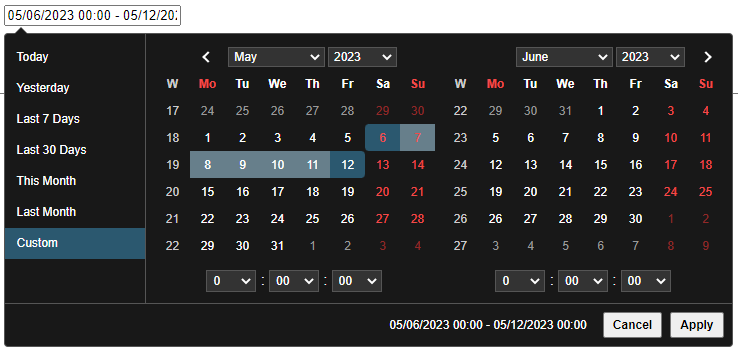
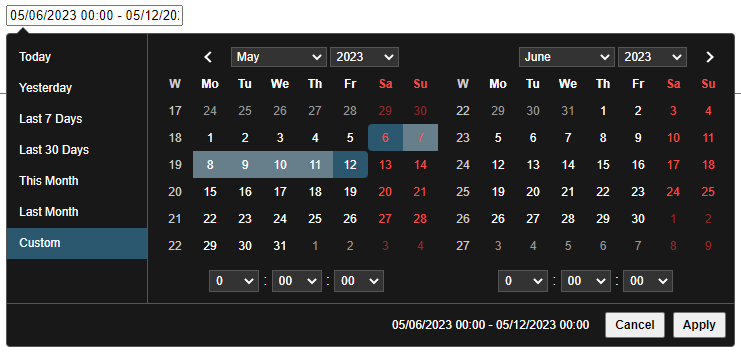
Fixed week end color in case that week starts from Monday.

diff --git a/daterangepicker.js b/daterangepicker.js
@@ -753,8 +753,11 @@
             if (this.showWeekNumbers || this.showISOWeekNumbers)
                 html += '<th class="week">' + this.locale.weekLabel + '</th>';
 
+            var firstDaysOfWeekIndex = this.locale.firstDay;
+            var sundayIdx = (0 - firstDaysOfWeekIndex) < 0 ? 7 - firstDaysOfWeekIndex : 0;
+            var saturdayIdx = 6 - firstDaysOfWeekIndex;
             $.each(this.locale.daysOfWeek, function(index, dayOfWeek) {
-                html += '<th ' +((index===0||index==6) ? 'class="weekend"' : '') + '>' + dayOfWeek + '</th>';
+                html += '<th ' +((index===sundayIdx||index==saturdayIdx) ? 'class="weekend"' : '') + '>' + dayOfWeek + '</th>';
             });
 
             html += '</tr>';
